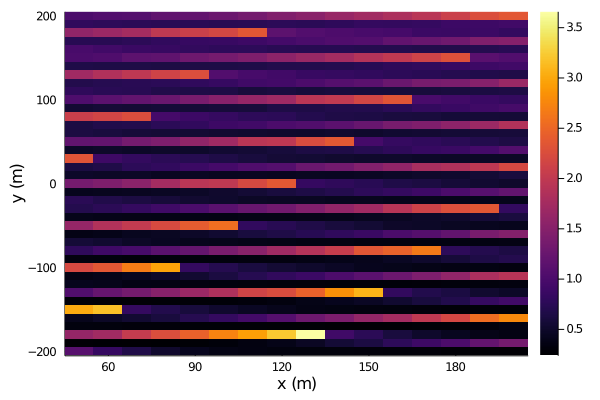
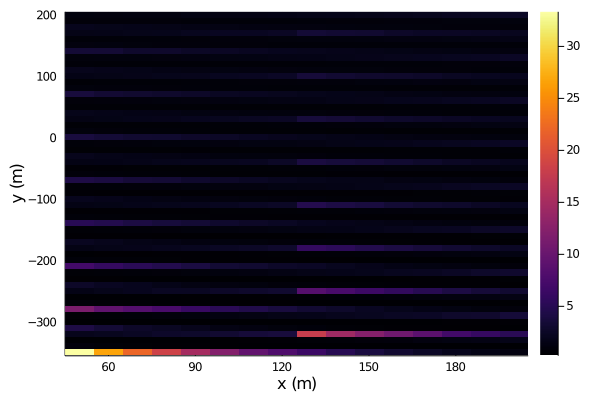
docs(*): update rmse map

diff --git a/README.md b/README.md
@@ -24,7 +24,7 @@ histogram(rmses; xlabel="RMSE (m)")
 ![window](images/rmse.png)
 ```julia
 xtxposs = 50:10:200
-ytxposs = -200:10:200
+ytxposs = -350:10:200
 ztxposs = -5:1:5
 μ = zeros(length(xtxposs), length(ytxposs), length(ztxposs))
 for (i, xtxpos) in enumerate(xtxposs)
